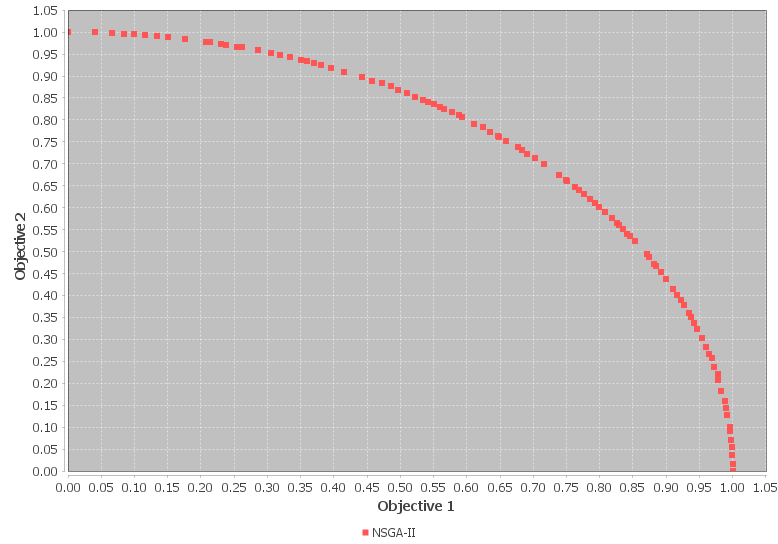
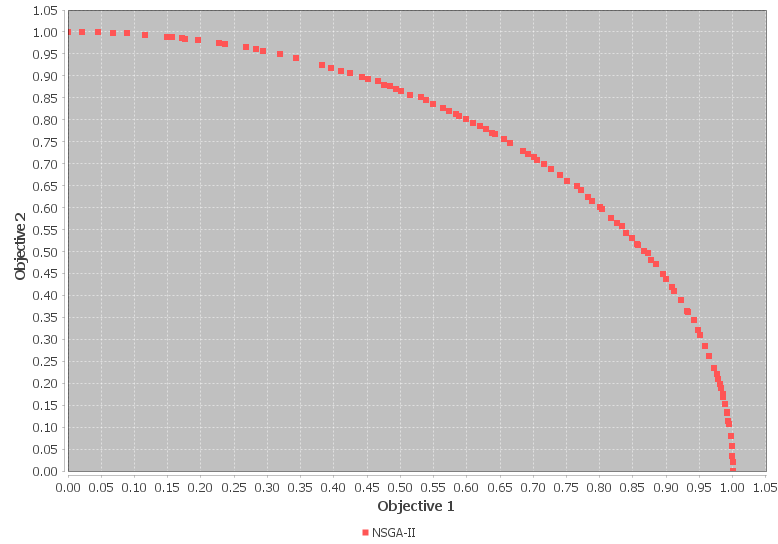
Set seed

diff --git a/src/org/moeaframework/util/io/ScreenCapture.java b/src/org/moeaframework/util/io/ScreenCapture.java
@@ -16,9 +16,13 @@ import java.util.List;
 import javax.imageio.ImageIO;
 import javax.swing.JFrame;
 
+import org.moeaframework.core.PRNG;
+
 public class ScreenCapture {
 	
 	public static void main(String[] args) throws ClassNotFoundException, NoSuchMethodException, SecurityException, IllegalAccessException, IllegalArgumentException, InvocationTargetException, IOException {
+		PRNG.setSeed(12345);
+		
 		Class<?> mainType = Class.forName(args[0]);
 		Method mainMethod = mainType.getMethod("main", String[].class);
 		
